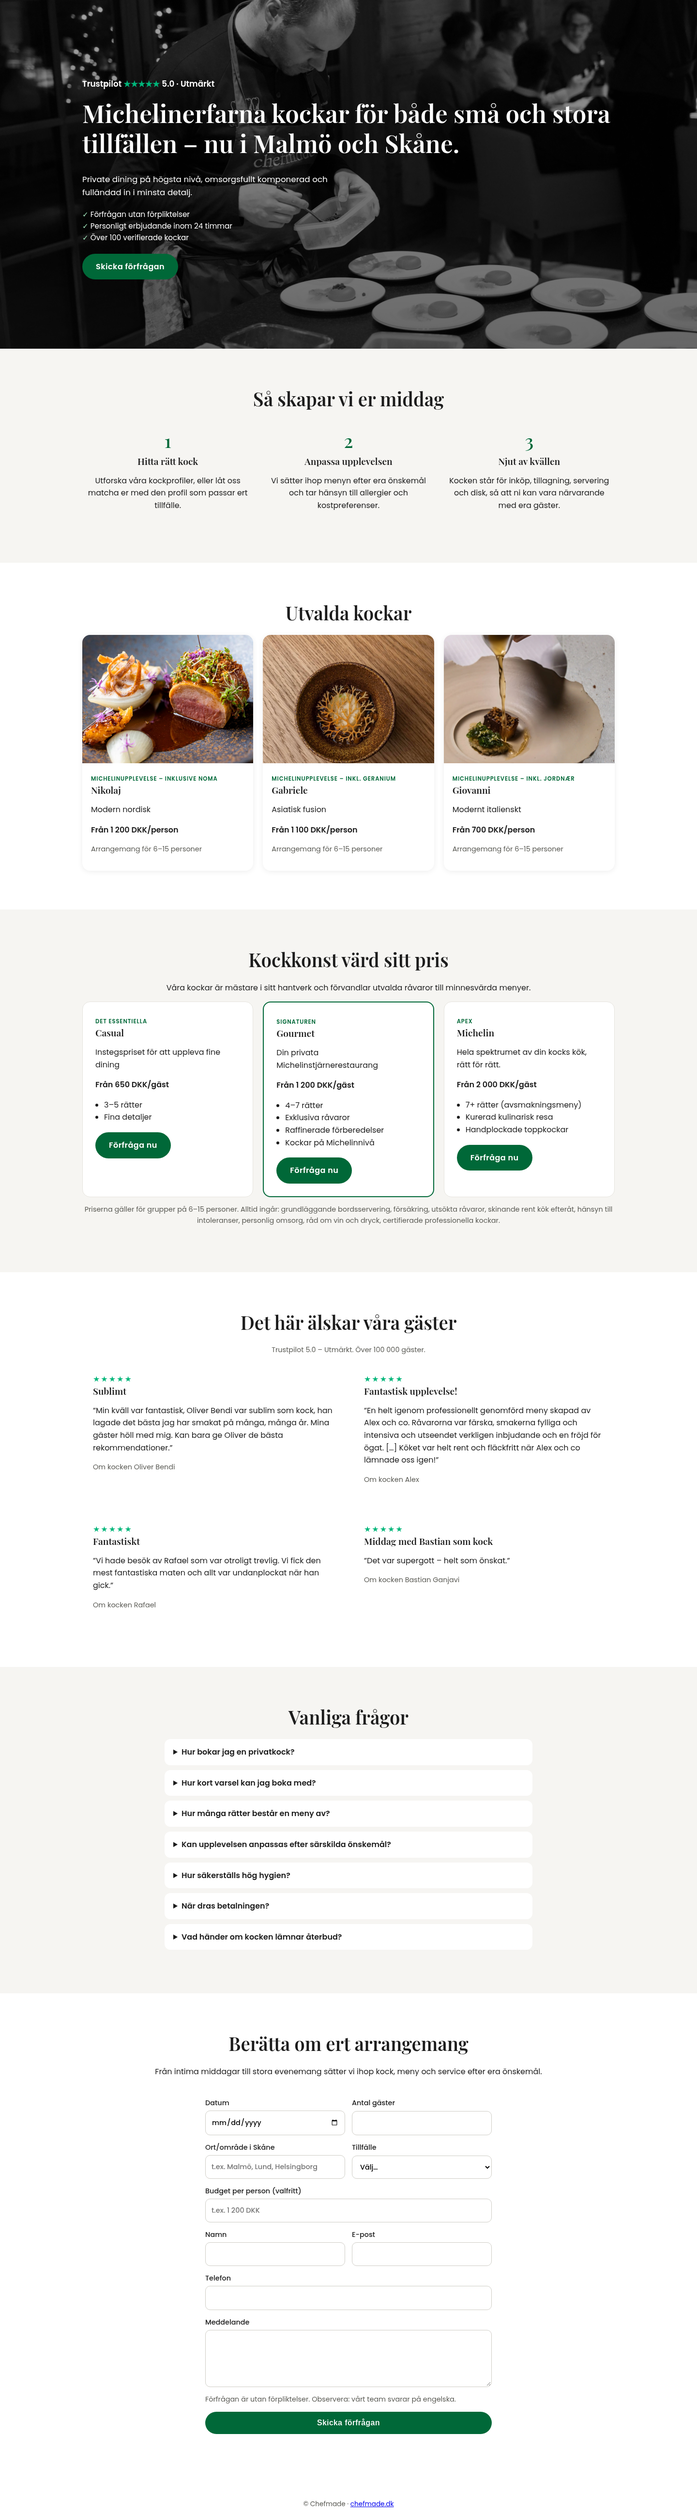
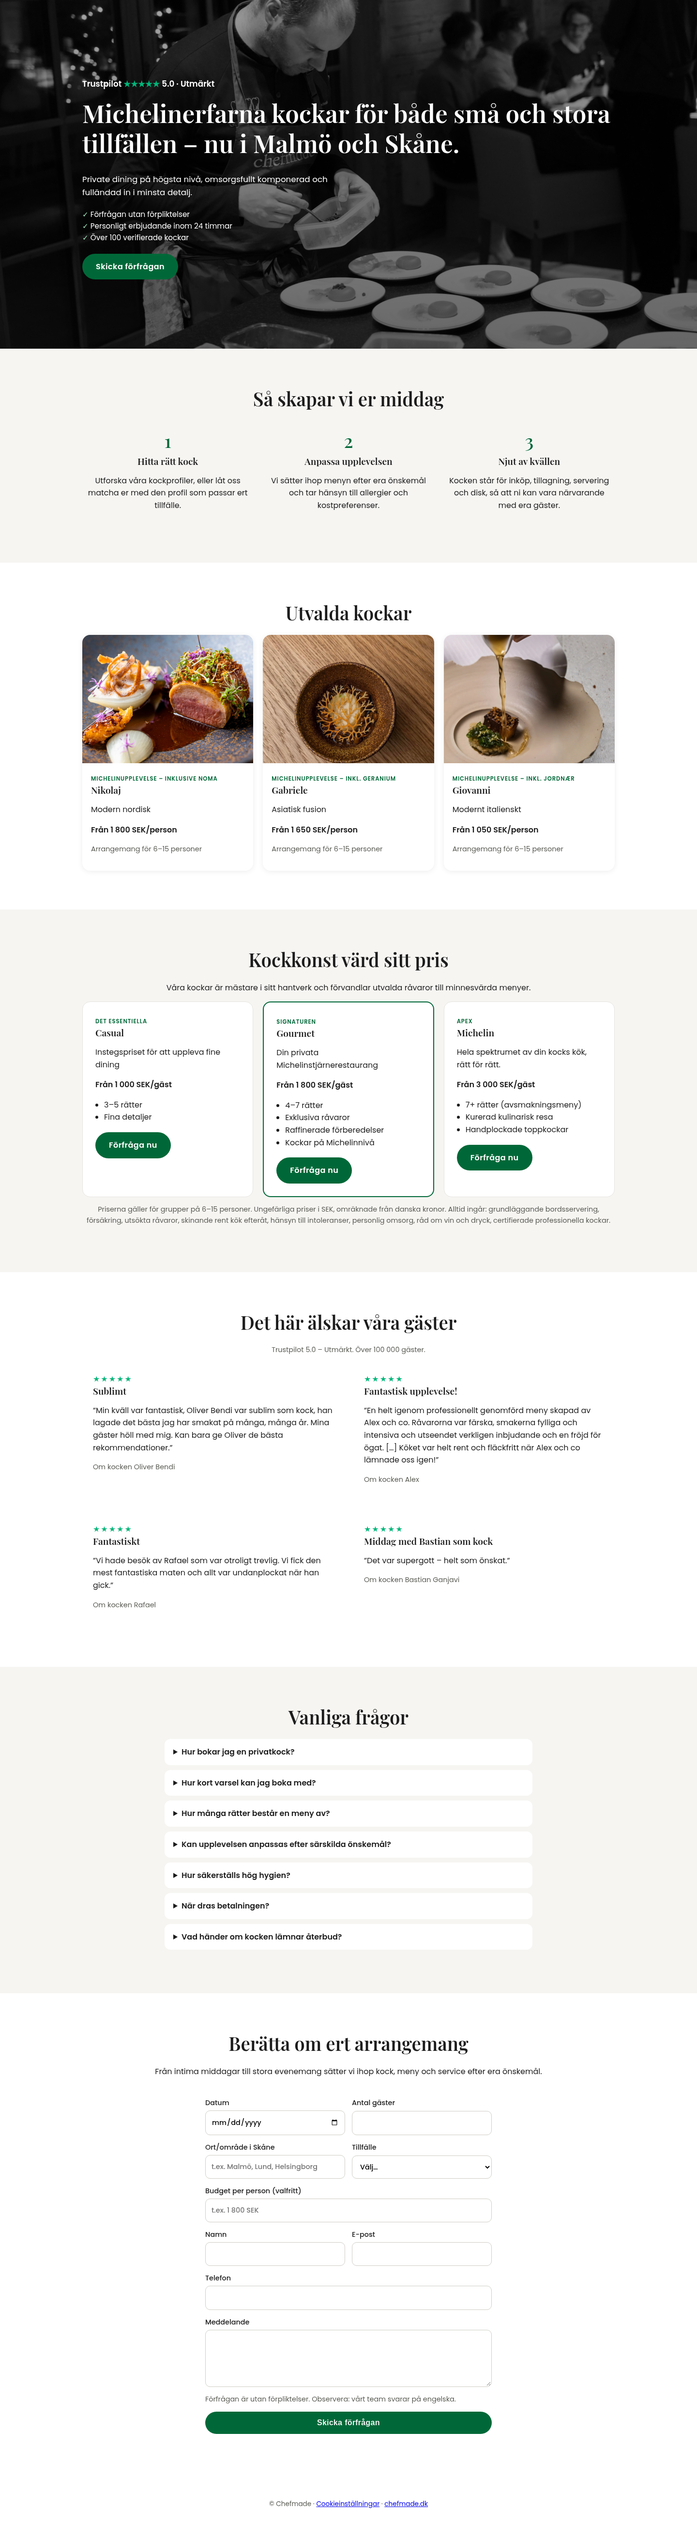
SEK prices (ECB 2026-10-22), cookie consent + Consent Mode v2

diff --git a/index.html b/index.html
@@ -1,9 +1,20 @@
 <!doctype html><html lang="sv"><head><meta charset="utf-8"><meta name="viewport" content="width=device-width,initial-scale=1">
-<meta name="robots" content="noindex"><title>Chefmade – Privatkock i Malmö och Skåne</title>
+<meta name="robots" content="noindex"><link rel="icon" href="data:,"><title>Chefmade – Privatkock i Malmö och Skåne</title>
 <meta name="description" content="Michelinerfarna kockar för både små och stora tillfällen – nu i Malmö och Skåne.">
+<!-- Google Consent Mode v2: defaults MUST come before any Google tag -->
+<script>
+window.dataLayer=window.dataLayer||[];function gtag(){dataLayer.push(arguments);}
+gtag('consent','default',{ad_storage:'denied',ad_user_data:'denied',ad_personalization:'denied',analytics_storage:'denied',functionality_storage:'granted',security_storage:'granted',wait_for_update:500});
+gtag('set','ads_data_redaction',true);gtag('set','url_passthrough',true);
+</script>
+<!-- Google Ads tag goes HERE (after defaults), e.g.:
+<script async src="https://www.googletagmanager.com/gtag/js?id=AW-XXXXXXXXX"></script>
+<script>gtag('js',new Date());gtag('config','AW-XXXXXXXXX');</script> -->
+<link rel="stylesheet" href="https://cdn.jsdelivr.net/gh/orestbida/cookieconsent@3.1.0/dist/cookieconsent.css">
+<link rel="stylesheet" href="cookie.css">
 <link rel="preconnect" href="https://fonts.googleapis.com"><link href="https://fonts.googleapis.com/css2?family=Playfair+Display:wght@500;600&family=Poppins:wght@400;500;600&display=swap" rel="stylesheet">
 <link rel="stylesheet" href="style.css"></head><body>
-<!-- Källa: all text översatt från https://www.chefmade.dk (startsidan, hämtad 2026-10-23). Endast geografi anpassad. Priser i DKK enligt chefmade.dk. -->
+<!-- Källa: all text översatt från https://www.chefmade.dk (startsidan, hämtad 2026-10-23). Endast geografi anpassad. Priser omräknade till SEK (se kommentar vid priserna). -->
 <section class="hero"><div class="wrap">
 <p class="tp">Trustpilot <b>★★★★★</b> 5.0 · Utmärkt</p>
 <h1>Michelinerfarna kockar för både små och stora tillfällen – nu i Malmö och Skåne.</h1>
@@ -18,17 +29,17 @@
 </div></div></section>
 
 <section id="kockar"><div class="wrap"><h2>Utvalda kockar</h2><div class="grid g3">
-<div class="card"><img src="https://fra1.digitaloceanspaces.com/chefspace/static/images/nikolaj_dish.jpg" alt="Rätt av kocken Nikolaj"><div class="in"><span class="tag">Michelinupplevelse – inklusive Noma</span><h3>Nikolaj</h3><p>Modern nordisk</p><p class="price">Från 1 200 DKK/person</p><p class="mut">Arrangemang för 6–15 personer</p></div></div>
-<div class="card"><img src="https://fra1.digitaloceanspaces.com/chefspace/static/images/gabriele_dish.jpg" alt="Rätt av kocken Gabriele"><div class="in"><span class="tag">Michelinupplevelse – inkl. Geranium</span><h3>Gabriele</h3><p>Asiatisk fusion</p><p class="price">Från 1 100 DKK/person</p><p class="mut">Arrangemang för 6–15 personer</p></div></div>
-<div class="card"><img src="https://fra1.digitaloceanspaces.com/chefspace/static/images/giovanni_dish.webp" alt="Rätt av kocken Giovanni"><div class="in"><span class="tag">Michelinupplevelse – inkl. Jordnær</span><h3>Giovanni</h3><p>Modernt italienskt</p><p class="price">Från 700 DKK/person</p><p class="mut">Arrangemang för 6–15 personer</p></div></div>
+<div class="card"><img src="https://fra1.digitaloceanspaces.com/chefspace/static/images/nikolaj_dish.jpg" alt="Rätt av kocken Nikolaj"><div class="in"><span class="tag">Michelinupplevelse – inklusive Noma</span><h3>Nikolaj</h3><p>Modern nordisk</p><p class="price">Från 1 800 SEK/person</p><p class="mut">Arrangemang för 6–15 personer</p></div></div>
+<div class="card"><img src="https://fra1.digitaloceanspaces.com/chefspace/static/images/gabriele_dish.jpg" alt="Rätt av kocken Gabriele"><div class="in"><span class="tag">Michelinupplevelse – inkl. Geranium</span><h3>Gabriele</h3><p>Asiatisk fusion</p><p class="price">Från 1 650 SEK/person</p><p class="mut">Arrangemang för 6–15 personer</p></div></div>
+<div class="card"><img src="https://fra1.digitaloceanspaces.com/chefspace/static/images/giovanni_dish.webp" alt="Rätt av kocken Giovanni"><div class="in"><span class="tag">Michelinupplevelse – inkl. Jordnær</span><h3>Giovanni</h3><p>Modernt italienskt</p><p class="price">Från 1 050 SEK/person</p><p class="mut">Arrangemang för 6–15 personer</p></div></div>
 </div></div></section>
 
 <section class="alt" id="priser"><div class="wrap"><h2>Kockkonst värd sitt pris</h2><p class="center">Våra kockar är mästare i sitt hantverk och förvandlar utvalda råvaror till minnesvärda menyer.</p><div class="grid g3">
-<div class="tier"><span class="tag">Det essentiella</span><h3>Casual</h3><p>Instegspriset för att uppleva fine dining</p><p class="price">Från 650 DKK/gäst</p><ul><li>3–5 rätter</li><li>Fina detaljer</li></ul><a class="btn" href="#forfragan">Förfråga nu</a></div>
-<div class="tier hl"><span class="tag">Signaturen</span><h3>Gourmet</h3><p>Din privata Michelinstjärnerestaurang</p><p class="price">Från 1 200 DKK/gäst</p><ul><li>4–7 rätter</li><li>Exklusiva råvaror</li><li>Raffinerade förberedelser</li><li>Kockar på Michelinnivå</li></ul><a class="btn" href="#forfragan">Förfråga nu</a></div>
-<div class="tier"><span class="tag">Apex</span><h3>Michelin</h3><p>Hela spektrumet av din kocks kök, rätt för rätt.</p><p class="price">Från 2 000 DKK/gäst</p><ul><li>7+ rätter (avsmakningsmeny)</li><li>Kurerad kulinarisk resa</li><li>Handplockade toppkockar</li></ul><a class="btn" href="#forfragan">Förfråga nu</a></div>
-</div><p class="center mut">Priserna gäller för grupper på 6–15 personer. Alltid ingår: grundläggande bordsservering, försäkring, utsökta råvaror, skinande rent kök efteråt, hänsyn till intoleranser, personlig omsorg, råd om vin och dryck, certifierade professionella kockar.</p>
-<!-- [PRIS I SEK]: priser visas i DKK som på chefmade.dk; ingen omräkning utan källa för växelkurs. Transportkostnad till Skåne ej angiven på chefmade.dk. --></div></section>
+<div class="tier"><span class="tag">Det essentiella</span><h3>Casual</h3><p>Instegspriset för att uppleva fine dining</p><p class="price">Från 1 000 SEK/gäst</p><ul><li>3–5 rätter</li><li>Fina detaljer</li></ul><a class="btn" href="#forfragan">Förfråga nu</a></div>
+<div class="tier hl"><span class="tag">Signaturen</span><h3>Gourmet</h3><p>Din privata Michelinstjärnerestaurang</p><p class="price">Från 1 800 SEK/gäst</p><ul><li>4–7 rätter</li><li>Exklusiva råvaror</li><li>Raffinerade förberedelser</li><li>Kockar på Michelinnivå</li></ul><a class="btn" href="#forfragan">Förfråga nu</a></div>
+<div class="tier"><span class="tag">Apex</span><h3>Michelin</h3><p>Hela spektrumet av din kocks kök, rätt för rätt.</p><p class="price">Från 3 000 SEK/gäst</p><ul><li>7+ rätter (avsmakningsmeny)</li><li>Kurerad kulinarisk resa</li><li>Handplockade toppkockar</li></ul><a class="btn" href="#forfragan">Förfråga nu</a></div>
+</div><p class="center mut">Priserna gäller för grupper på 6–15 personer. Ungefärliga priser i SEK, omräknade från danska kronor. Alltid ingår: grundläggande bordsservering, försäkring, utsökta råvaror, skinande rent kök efteråt, hänsyn till intoleranser, personlig omsorg, råd om vin och dryck, certifierade professionella kockar.</p>
+<!-- Priser omräknade från chefmade.dk (DKK) med ECB:s referenskurs 2026-10-22: 1 DKK = 1,4866 SEK (11,1120/7,4747), avrundat uppåt till närmaste 50 SEK. --></div></section>
 
 <section id="omdomen"><div class="wrap"><h2>Det här älskar våra gäster</h2><p class="center mut">Trustpilot 5.0 – Utmärkt. Över 100 000 gäster.</p><div class="grid g2">
 <div class="quote"><div class="s">★★★★★</div><h3>Sublimt</h3><p>”Min kväll var fantastisk, Oliver Bendi var sublim som kock, han lagade det bästa jag har smakat på många, många år. Mina gäster höll med mig. Kan bara ge Oliver de bästa rekommendationer.”</p><p class="mut">Om kocken Oliver Bendi</p></div>
@@ -53,11 +64,13 @@
 <div class="two"><label>Datum<input type="date" required></label><label>Antal gäster<input type="number" min="1" required></label></div>
 <div class="two"><label>Ort/område i Skåne<input type="text" placeholder="t.ex. Malmö, Lund, Helsingborg" required></label>
 <label>Tillfälle<select required><option value="">Välj…</option><option>Middagsbjudning</option><option>Företag</option><option>Födelsedag</option><option>Bröllop</option><option>Julfest</option><option>Annat</option></select></label></div>
-<label>Budget per person (valfritt)<input type="text" placeholder="t.ex. 1 200 DKK"></label>
+<label>Budget per person (valfritt)<input type="text" placeholder="t.ex. 1 800 SEK"></label>
 <div class="two"><label>Namn<input type="text" required></label><label>E-post<input type="email" required></label></div>
 <label>Telefon<input type="tel"></label>
 <label>Meddelande<textarea rows="4"></textarea></label>
 <p class="mut" style="margin:0">Förfrågan är utan förpliktelser. Observera: vårt team svarar på engelska.</p>
 <button class="btn" type="submit">Skicka förfrågan</button></form></div></section>
-<footer>© Chefmade · <a href="https://www.chefmade.dk">chefmade.dk</a></footer>
+<footer>© Chefmade · <a href="#" data-cc="show-preferencesModal">Cookieinställningar</a> · <a href="https://www.chefmade.dk">chefmade.dk</a></footer>
+<script defer src="https://cdn.jsdelivr.net/gh/orestbida/cookieconsent@3.1.0/dist/cookieconsent.umd.js"></script>
+<script defer src="cookie-consent.js"></script>
 </body></html>

diff --git a/cookie-consent.js b/cookie-consent.js
@@ -1,0 +1,21 @@
+// vanilla-cookieconsent v3.1.0 (MIT, orestbida) + Google Consent Mode v2 updates
+function updateGcm(){
+  const ads = CookieConsent.acceptedCategory('ads'), an = CookieConsent.acceptedCategory('analytics');
+  gtag('consent','update',{ad_storage:ads?'granted':'denied',ad_user_data:ads?'granted':'denied',ad_personalization:ads?'granted':'denied',analytics_storage:an?'granted':'denied'});
+}
+CookieConsent.run({
+  guiOptions:{consentModal:{layout:'box',position:'bottom left'},preferencesModal:{layout:'box'}},
+  categories:{necessary:{enabled:true,readOnly:true},analytics:{},ads:{}},
+  onConsent:updateGcm, onChange:updateGcm,
+  language:{default:'sv',translations:{sv:{
+    consentModal:{title:'Vi använder cookies',
+      description:'Vi använder nödvändiga cookies för att webbplatsen ska fungera. Med ditt samtycke använder vi även cookies för statistik och för att mäta våra annonser (Google Ads). Du kan när som helst ändra ditt val.',
+      acceptAllBtn:'Acceptera alla',acceptNecessaryBtn:'Avvisa alla',showPreferencesBtn:'Inställningar'},
+    preferencesModal:{title:'Cookieinställningar',acceptAllBtn:'Acceptera alla',acceptNecessaryBtn:'Avvisa alla',savePreferencesBtn:'Spara val',closeIconLabel:'Stäng',
+      sections:[
+        {title:'Nödvändiga cookies',description:'Krävs för att webbplatsen ska fungera och kan inte stängas av.',linkedCategory:'necessary'},
+        {title:'Statistik',description:'Hjälper oss att förstå hur besökare använder webbplatsen.',linkedCategory:'analytics'},
+        {title:'Marknadsföring',description:'Används för att mäta och förbättra våra annonser, t.ex. Google Ads.',linkedCategory:'ads'}
+      ]}
+  }}}
+});

diff --git a/cookie.css b/cookie.css
@@ -1,0 +1,1 @@
+#cc-main{--cc-font-family:Poppins,sans-serif;--cc-btn-primary-bg:#006838;--cc-btn-primary-border-color:#006838;--cc-btn-primary-hover-bg:#004d2a;--cc-btn-primary-hover-border-color:#004d2a;--cc-btn-secondary-bg:#f6f5f2;--cc-toggle-on-bg:#006838;--cc-btn-border-radius:999px}

diff --git a/carrd-build-sheet.md b/carrd-build-sheet.md
@@ -18,18 +18,19 @@ Images: hosted on Chefmade's own DigitalOcean CDN (fra1.digitaloceanspaces.com/c
 
 ## 3. Featured chefs — Container, H2 + Columns ×3 (Image + Text)
 - H2 "Utvalda kockar" (Featured chefs)
-- Nikolaj — img https://fra1.digitaloceanspaces.com/chefspace/static/images/nikolaj_dish.jpg — "Michelinupplevelse – inklusive Noma" / "Modern nordisk" / "Från 1 200 DKK/person" / "Arrangemang för 6–15 personer" (Michelin experience incl. Noma / modern Nordic / from DKK 1,200 pp / events for 6–15)
-- Gabriele — img https://fra1.digitaloceanspaces.com/chefspace/static/images/gabriele_dish.jpg — "Michelinupplevelse – inkl. Geranium" / "Asiatisk fusion" / "Från 1 100 DKK/person" / same
-- Giovanni — img https://fra1.digitaloceanspaces.com/chefspace/static/images/giovanni_dish.webp — "Michelinupplevelse – inkl. Jordnær" / "Modernt italienskt" / "Från 700 DKK/person" / same
-- (Also on chefmade.dk: Niklas – French, from 700; Oliver – modern, from 600; Matheu – international, from 750. Swap in if those cover Skåne.)
+- Nikolaj — img https://fra1.digitaloceanspaces.com/chefspace/static/images/nikolaj_dish.jpg — "Michelinupplevelse – inklusive Noma" / "Modern nordisk" / "Från 1 800 SEK/person" / "Arrangemang för 6–15 personer" (Michelin experience incl. Noma / modern Nordic / from SEK 1,800 pp / events for 6–15)
+- Gabriele — img https://fra1.digitaloceanspaces.com/chefspace/static/images/gabriele_dish.jpg — "Michelinupplevelse – inkl. Geranium" / "Asiatisk fusion" / "Från 1 650 SEK/person" / same
+- Giovanni — img https://fra1.digitaloceanspaces.com/chefspace/static/images/giovanni_dish.webp — "Michelinupplevelse – inkl. Jordnær" / "Modernt italienskt" / "Från 1 050 SEK/person" / same
+- (Also on chefmade.dk: Niklas – French, from 1 050 SEK; Oliver – modern, from 900 SEK; Matheu – international, from 1 150 SEK. Swap in if those cover Skåne.)
 
 ## 4. Prices — Container (beige), H2, Text, Columns ×3
 - H2 "Kockkonst värd sitt pris" (Culinary art worth its price); Text "Våra kockar är mästare i sitt hantverk och förvandlar utvalda råvaror till minnesvärda menyer." (Our chefs are masters of their craft…)
-- Casual: "Det essentiella" / "Instegspriset för att uppleva fine dining" / "Från 650 DKK/gäst" / "3–5 rätter · Fina detaljer" → Button "Förfråga nu" (Inquire now) → `#forfragan`
-- Gourmet: "Signaturen" / "Din privata Michelinstjärnerestaurang" / "Från 1 200 DKK/gäst" / "4–7 rätter · Exklusiva råvaror · Raffinerade förberedelser · Kockar på Michelinnivå" → same button
-- Michelin: "Apex" / "Hela spektrumet av din kocks kök, rätt för rätt." / "Från 2 000 DKK/gäst" / "7+ rätter (avsmakningsmeny) · Kurerad kulinarisk resa · Handplockade toppkockar" → same button
+- Casual: "Det essentiella" / "Instegspriset för att uppleva fine dining" / "Från 1 000 SEK/gäst" / "3–5 rätter · Fina detaljer" → Button "Förfråga nu" (Inquire now) → `#forfragan`
+- Gourmet: "Signaturen" / "Din privata Michelinstjärnerestaurang" / "Från 1 800 SEK/gäst" / "4–7 rätter · Exklusiva råvaror · Raffinerade förberedelser · Kockar på Michelinnivå" → same button
+- Michelin: "Apex" / "Hela spektrumet av din kocks kök, rätt för rätt." / "Från 3 000 SEK/gäst" / "7+ rätter (avsmakningsmeny) · Kurerad kulinarisk resa · Handplockade toppkockar" → same button
 - Small text: "Priserna gäller för grupper på 6–15 personer. Alltid ingår: grundläggande bordsservering, försäkring, utsökta råvaror, skinande rent kök efteråt, hänsyn till intoleranser, personlig omsorg, råd om vin och dryck, certifierade professionella kockar." (Prices for groups of 6–15. Always included: …)
-- Prices stay in DKK. [PRIS I SEK] only if Konrad sets SEK prices himself.
+- Append to small text: "Ungefärliga priser i SEK, omräknade från danska kronor." (Approximate SEK prices, converted from Danish kroner)
+- **Currency conversion:** ECB euro reference rates dated 2026-10-22 (https://www.ecb.europa.eu/stats/eurofxref/eurofxref-daily.xml, fetched 2026-10-23 03:30 CEST; the 23 Oct fixing is published ~16:00 CET): EUR/DKK 7.4747, EUR/SEK 11.1120 → 1 DKK = 1.4866 SEK. Rule: DKK × 1.4866, rounded UP to the next 50 SEK. 600→900, 650→1 000, 700→1 050, 750→1 150, 1 100→1 650, 1 200→1 800, 2 000→3 000.
 
 ## 5. Testimonials — Container, H2, Columns ×2 (Text), quotes translated from chefmade.dk
 - H2 "Det här älskar våra gäster" (What our guests love); sub "Trustpilot 5.0 – Utmärkt. Över 100 000 gäster."
@@ -56,7 +57,7 @@ Images: hosted on Chefmade's own DigitalOcean CDN (fra1.digitaloceanspaces.com/c
 | Antal gäster | Number of guests | Number | yes |
 | Ort/område i Skåne | City/area in Skåne | Text (placeholder "t.ex. Malmö, Lund, Helsingborg") | yes |
 | Tillfälle | Occasion | Select: Middagsbjudning, Företag, Födelsedag, Bröllop, Julfest, Annat | yes |
-| Budget per person (valfritt) | Budget pp, optional | Text | no |
+| Budget per person (valfritt) | Budget pp, optional | Text (placeholder "t.ex. 1 800 SEK") | no |
 | Namn | Name | Name | yes |
 | E-post | Email | Email | yes |
 | Telefon | Phone | Text (Carrd has no tel type; or Phone if available) | no |
@@ -68,4 +69,59 @@ Images: hosted on Chefmade's own DigitalOcean CDN (fra1.digitaloceanspaces.com/c
 ## Google Ads conversion
 - Preferred: On Success → Redirect to `#tack` section / separate thank-you page; in Google Ads create a "Submit lead form" conversion triggered on page URL containing `#tack` (or use GTM). Carrd Pro: paste the gtag base tag in Settings → Head, and put the event snippet `gtag('event','conversion',{send_to:'AW-XXXX/XXXX'})` in an Embed (Code, hidden) inside the thank-you section/page.
 - If using "Message" instead of redirect, there's no URL change → conversion can't fire by URL; use redirect.
-- Respect consent: Swedish/EU traffic needs a cookie-consent banner (Consent Mode v2) before Ads tags fire.
+- Consent: see section below.
+
+## Cookie consent (vanilla-cookieconsent v3.1.0, MIT, no account) + Google Consent Mode v2
+Why: free/open-source, no pageview/domain limits, Swedish via own texts, documented Google Consent Mode guide (cookieconsent.orestbida.com/advanced/google-consent-mode.html), plain JS → works in Carrd embeds.
+Comparison (official pages fetched 2026-10-23):
+| | Free limits | Consent Mode v2 | Swedish | Carrd |
+|---|---|---|---|---|
+| vanilla-cookieconsent (orestbida) | Free, MIT, no account, no limits (self/CDN hosted) | Yes, via gtag consent updates in callbacks (official guide) | Yes, custom translation (texts below) | Yes, head/body embeds |
+| Cookiebot Free (cookiebot.com/en/pricing) | 1 domain, ≤50 subpages, 1 language, consent expiry ≤1 month, no custom branding | Yes ("Google Consent Mode support" on Free) | 1 language on Free (can be Swedish) | Yes, script in head; needs account |
+| CookieYes Free (cookieyes.com/pricing) | 1 domain, 5,000 pageviews/month, 100 pages/scan | Yes (Free) | No multilingual/auto-translate on Free | Yes, script in head; needs account |
+
+Carrd (Pro, needs Embed support) steps:
+1. **Settings → Head (custom code)** — paste in this order, FIRST:
+```html
+<meta name="robots" content="noindex">
+<script>
+window.dataLayer=window.dataLayer||[];function gtag(){dataLayer.push(arguments);}
+gtag('consent','default',{ad_storage:'denied',ad_user_data:'denied',ad_personalization:'denied',analytics_storage:'denied',functionality_storage:'granted',security_storage:'granted',wait_for_update:500});
+gtag('set','ads_data_redaction',true);gtag('set','url_passthrough',true);
+</script>
+<!-- THEN the Google Ads tag (replace AW-XXXXXXXXX): -->
+<script async src="https://www.googletagmanager.com/gtag/js?id=AW-XXXXXXXXX"></script>
+<script>gtag('js',new Date());gtag('config','AW-XXXXXXXXX');</script>
+<link rel="stylesheet" href="https://cdn.jsdelivr.net/gh/orestbida/cookieconsent@3.1.0/dist/cookieconsent.css">
+<style>#cc-main{--cc-font-family:Poppins,sans-serif;--cc-btn-primary-bg:#006838;--cc-btn-primary-border-color:#006838;--cc-btn-primary-hover-bg:#004d2a;--cc-btn-primary-hover-border-color:#004d2a;--cc-btn-secondary-bg:#f6f5f2;--cc-toggle-on-bg:#006838;--cc-btn-border-radius:999px}</style>
+```
+2. **Add element → Embed**, Type: *Code*, Style: *Hidden*, Location: *Body end* — paste:
+```html
+<script src="https://cdn.jsdelivr.net/gh/orestbida/cookieconsent@3.1.0/dist/cookieconsent.umd.js"></script>
+<script>
+// vanilla-cookieconsent v3.1.0 (MIT, orestbida) + Google Consent Mode v2 updates
+function updateGcm(){
+  const ads = CookieConsent.acceptedCategory('ads'), an = CookieConsent.acceptedCategory('analytics');
+  gtag('consent','update',{ad_storage:ads?'granted':'denied',ad_user_data:ads?'granted':'denied',ad_personalization:ads?'granted':'denied',analytics_storage:an?'granted':'denied'});
+}
+CookieConsent.run({
+  guiOptions:{consentModal:{layout:'box',position:'bottom left'},preferencesModal:{layout:'box'}},
+  categories:{necessary:{enabled:true,readOnly:true},analytics:{},ads:{}},
+  onConsent:updateGcm, onChange:updateGcm,
+  language:{default:'sv',translations:{sv:{
+    consentModal:{title:'Vi använder cookies',
+      description:'Vi använder nödvändiga cookies för att webbplatsen ska fungera. Med ditt samtycke använder vi även cookies för statistik och för att mäta våra annonser (Google Ads). Du kan när som helst ändra ditt val.',
+      acceptAllBtn:'Acceptera alla',acceptNecessaryBtn:'Avvisa alla',showPreferencesBtn:'Inställningar'},
+    preferencesModal:{title:'Cookieinställningar',acceptAllBtn:'Acceptera alla',acceptNecessaryBtn:'Avvisa alla',savePreferencesBtn:'Spara val',closeIconLabel:'Stäng',
+      sections:[
+        {title:'Nödvändiga cookies',description:'Krävs för att webbplatsen ska fungera och kan inte stängas av.',linkedCategory:'necessary'},
+        {title:'Statistik',description:'Hjälper oss att förstå hur besökare använder webbplatsen.',linkedCategory:'analytics'},
+        {title:'Marknadsföring',description:'Används för att mäta och förbättra våra annonser, t.ex. Google Ads.',linkedCategory:'ads'}
+      ]}
+  }}}
+});
+</script>
+```
+3. Footer: add a Text/Embed link `<a href="#" data-cc="show-preferencesModal">Cookieinställningar</a>` (Cookie settings) so visitors can change their choice.
+4. Publish, open in a private window: banner shows; "Avvisa alla" → consent update all denied; "Acceptera alla" → granted (check in Google Tag Assistant). Note: the banner is hidden for automated bots/headless browsers by design (hideFromBots).
+Swedish banner texts: "Vi använder cookies" (We use cookies) / buttons "Acceptera alla" (Accept all), "Avvisa alla" (Reject all), "Inställningar" (Settings), "Spara val" (Save choices); categories "Nödvändiga cookies", "Statistik", "Marknadsföring".
